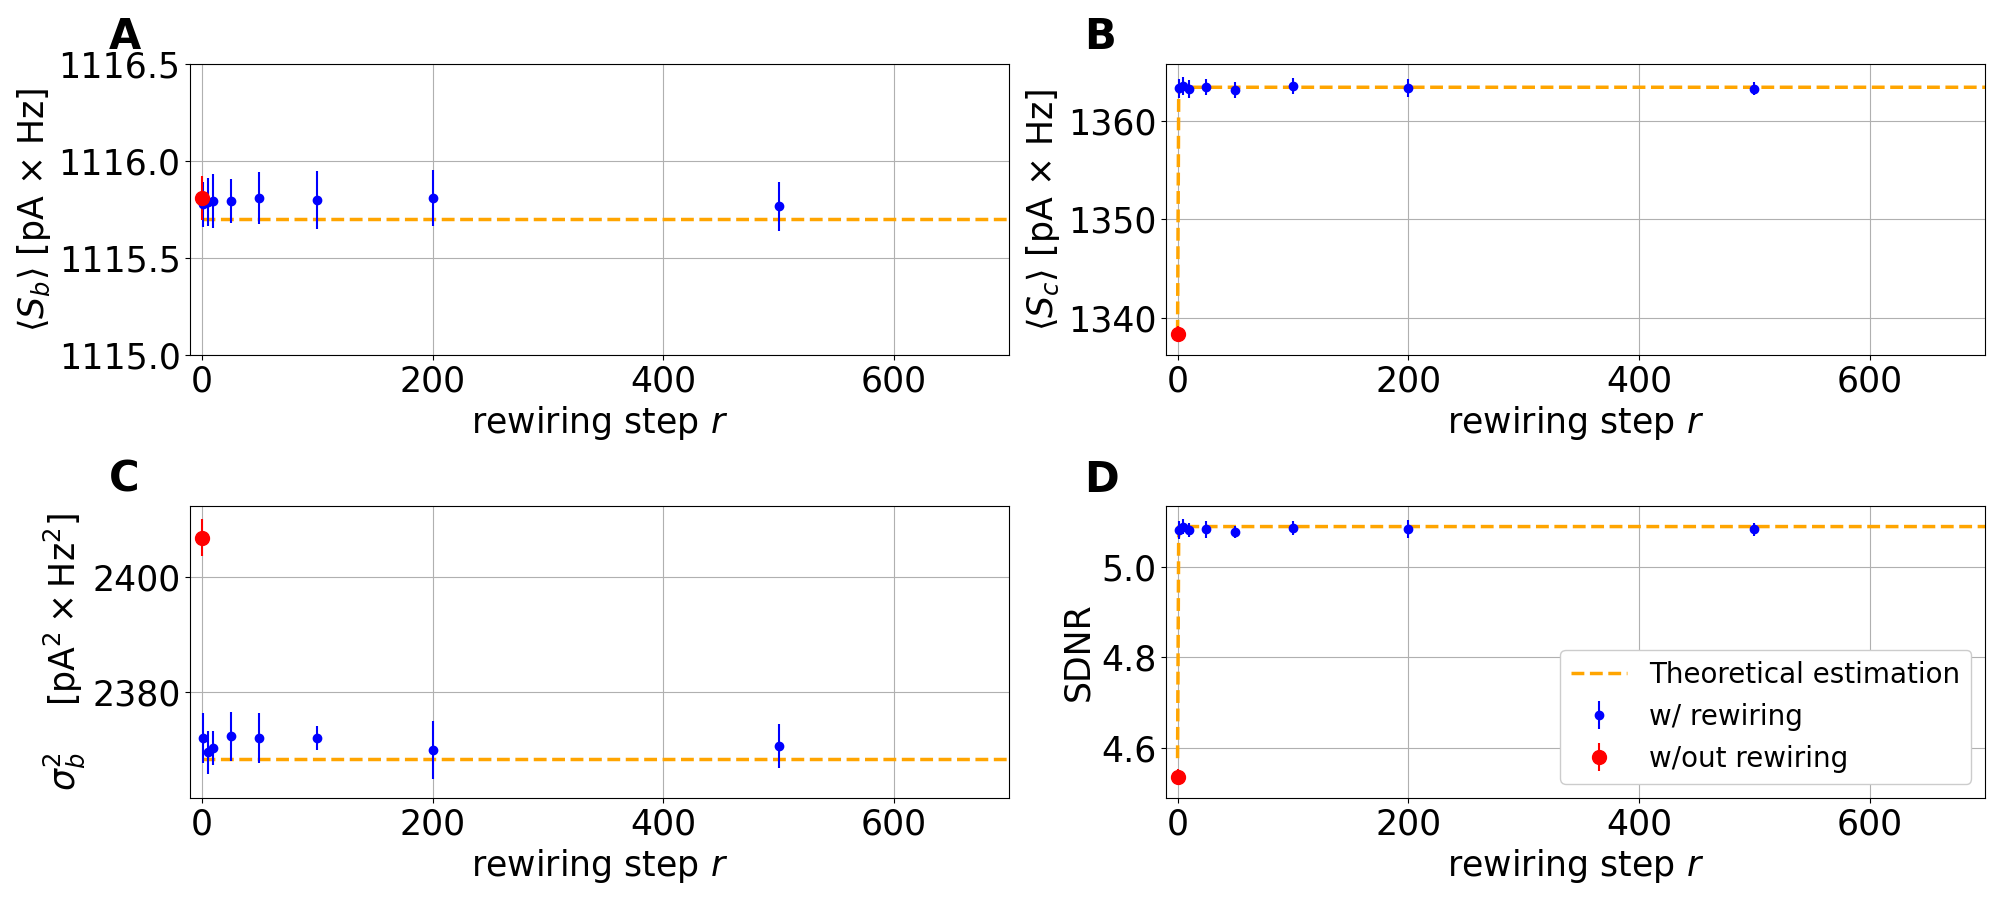
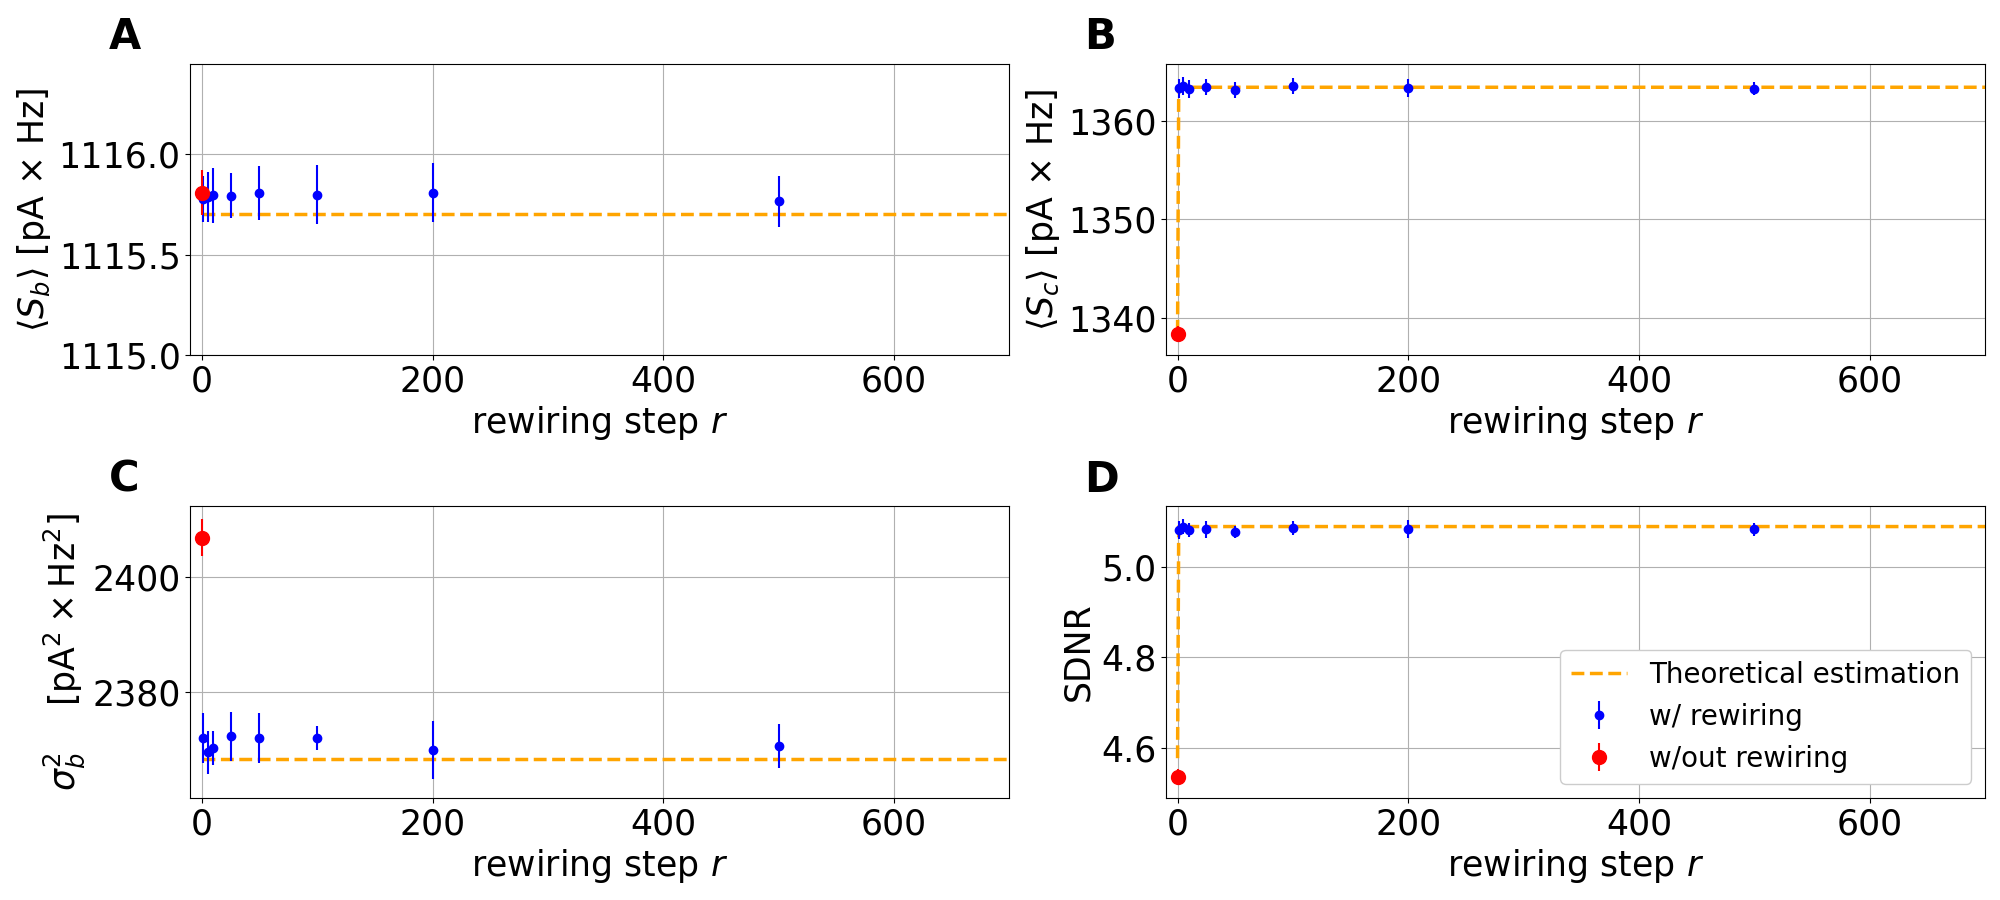
edited plot variable rewiring

Changed region(s): [[0.031, 0.1556, 0.496, 0.2489], [0.031, 0.28, 0.093, 0.3111], [0.031, 0.0622, 0.093, 0.0933]]

diff --git a/plot/plot_variable_rewiring.py b/plot/plot_variable_rewiring.py
@@ -292,7 +292,7 @@ def plot_data(data, th_data):
     ax1.set_ylabel(r"$\langle S_b \rangle$ [pA $\times$ Hz]", fontsize=tick_fs)
     ax1.set_xlabel(r"rewiring step $r$", fontsize=tick_fs)
     ax1.tick_params(labelsize=tick_fs)
-    ax1.set_ylim(1115, 1116.5)
+    ax1.set_ylim(1115, 1116.45)
     ax1.set_xlim(-10, 700)
     ax1.ticklabel_format(style='plain', useOffset=False, axis='y') 
     #ax1.set_xticklabels([])
